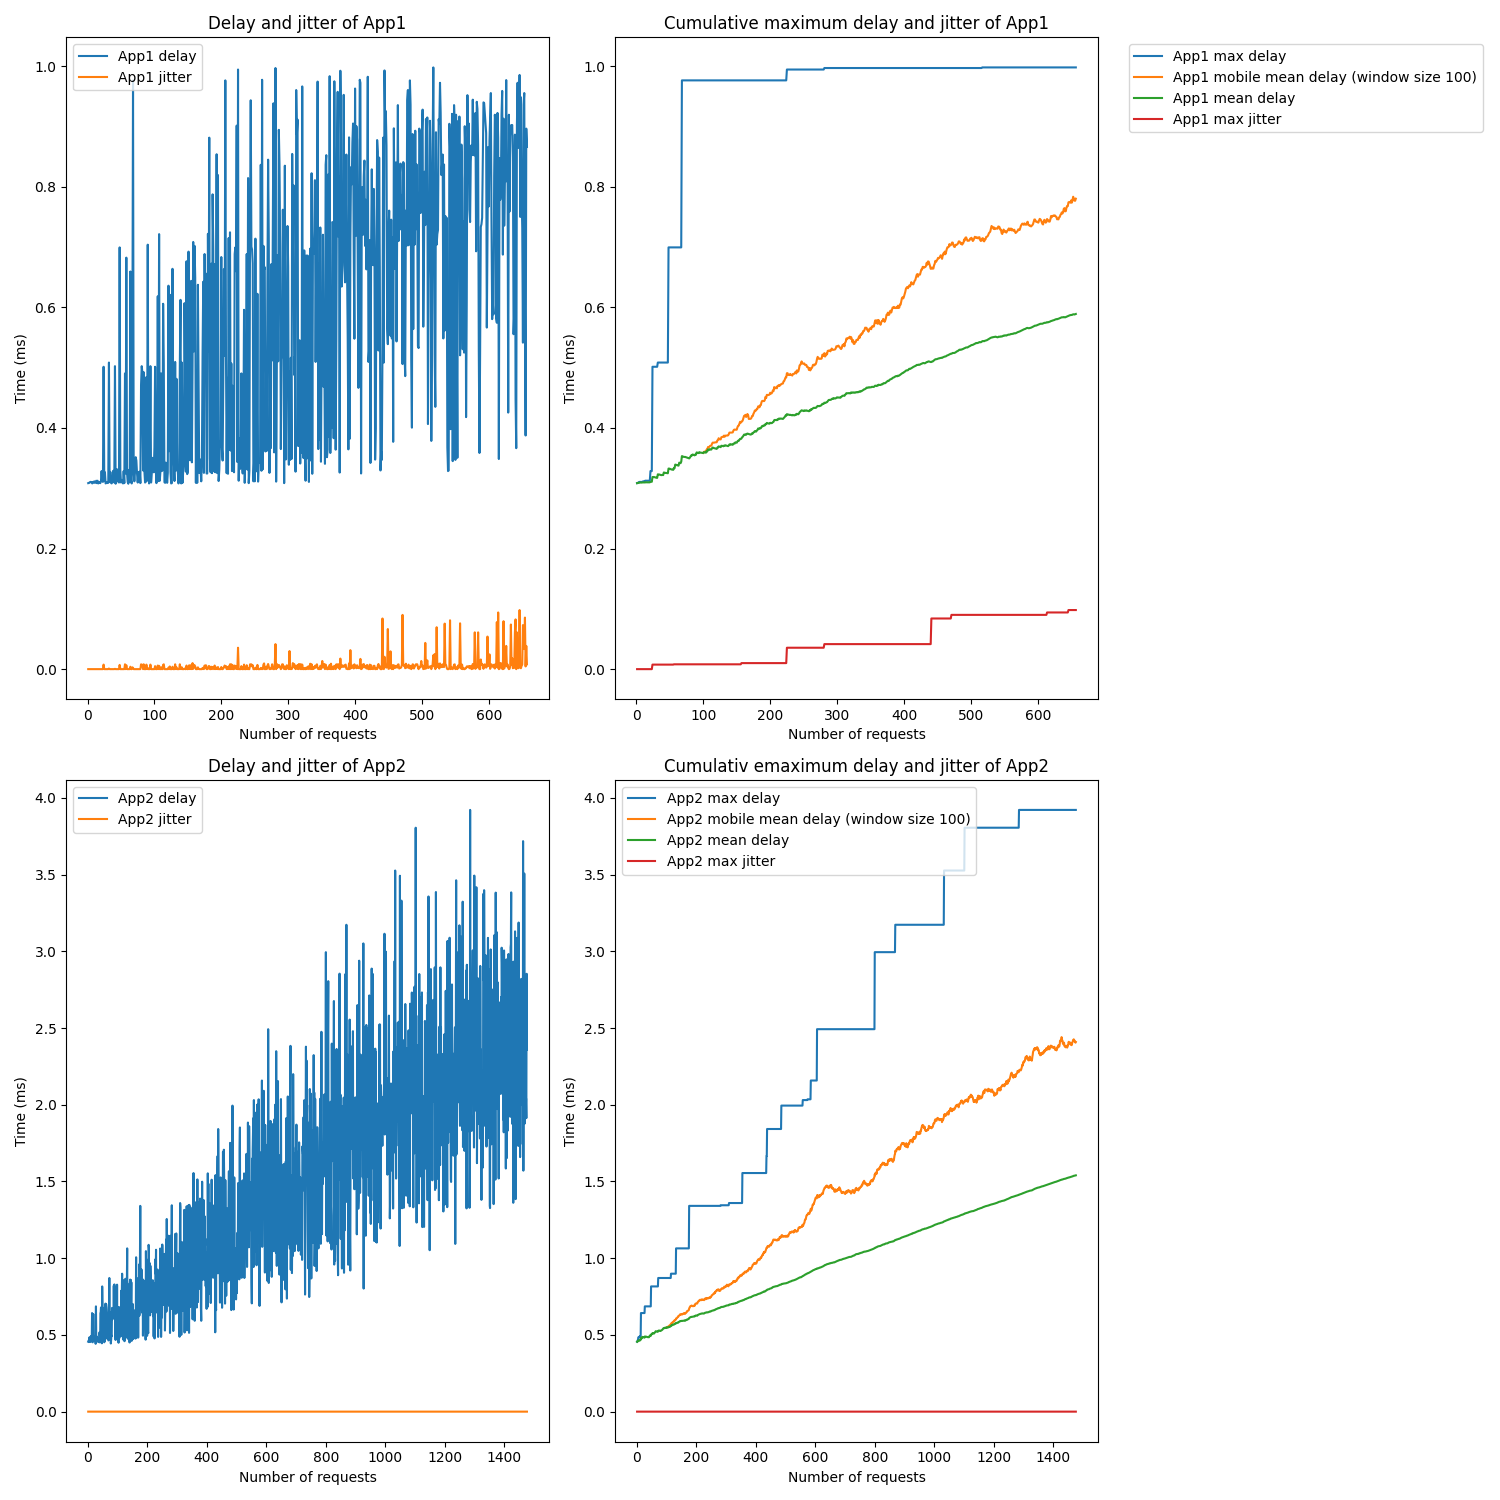
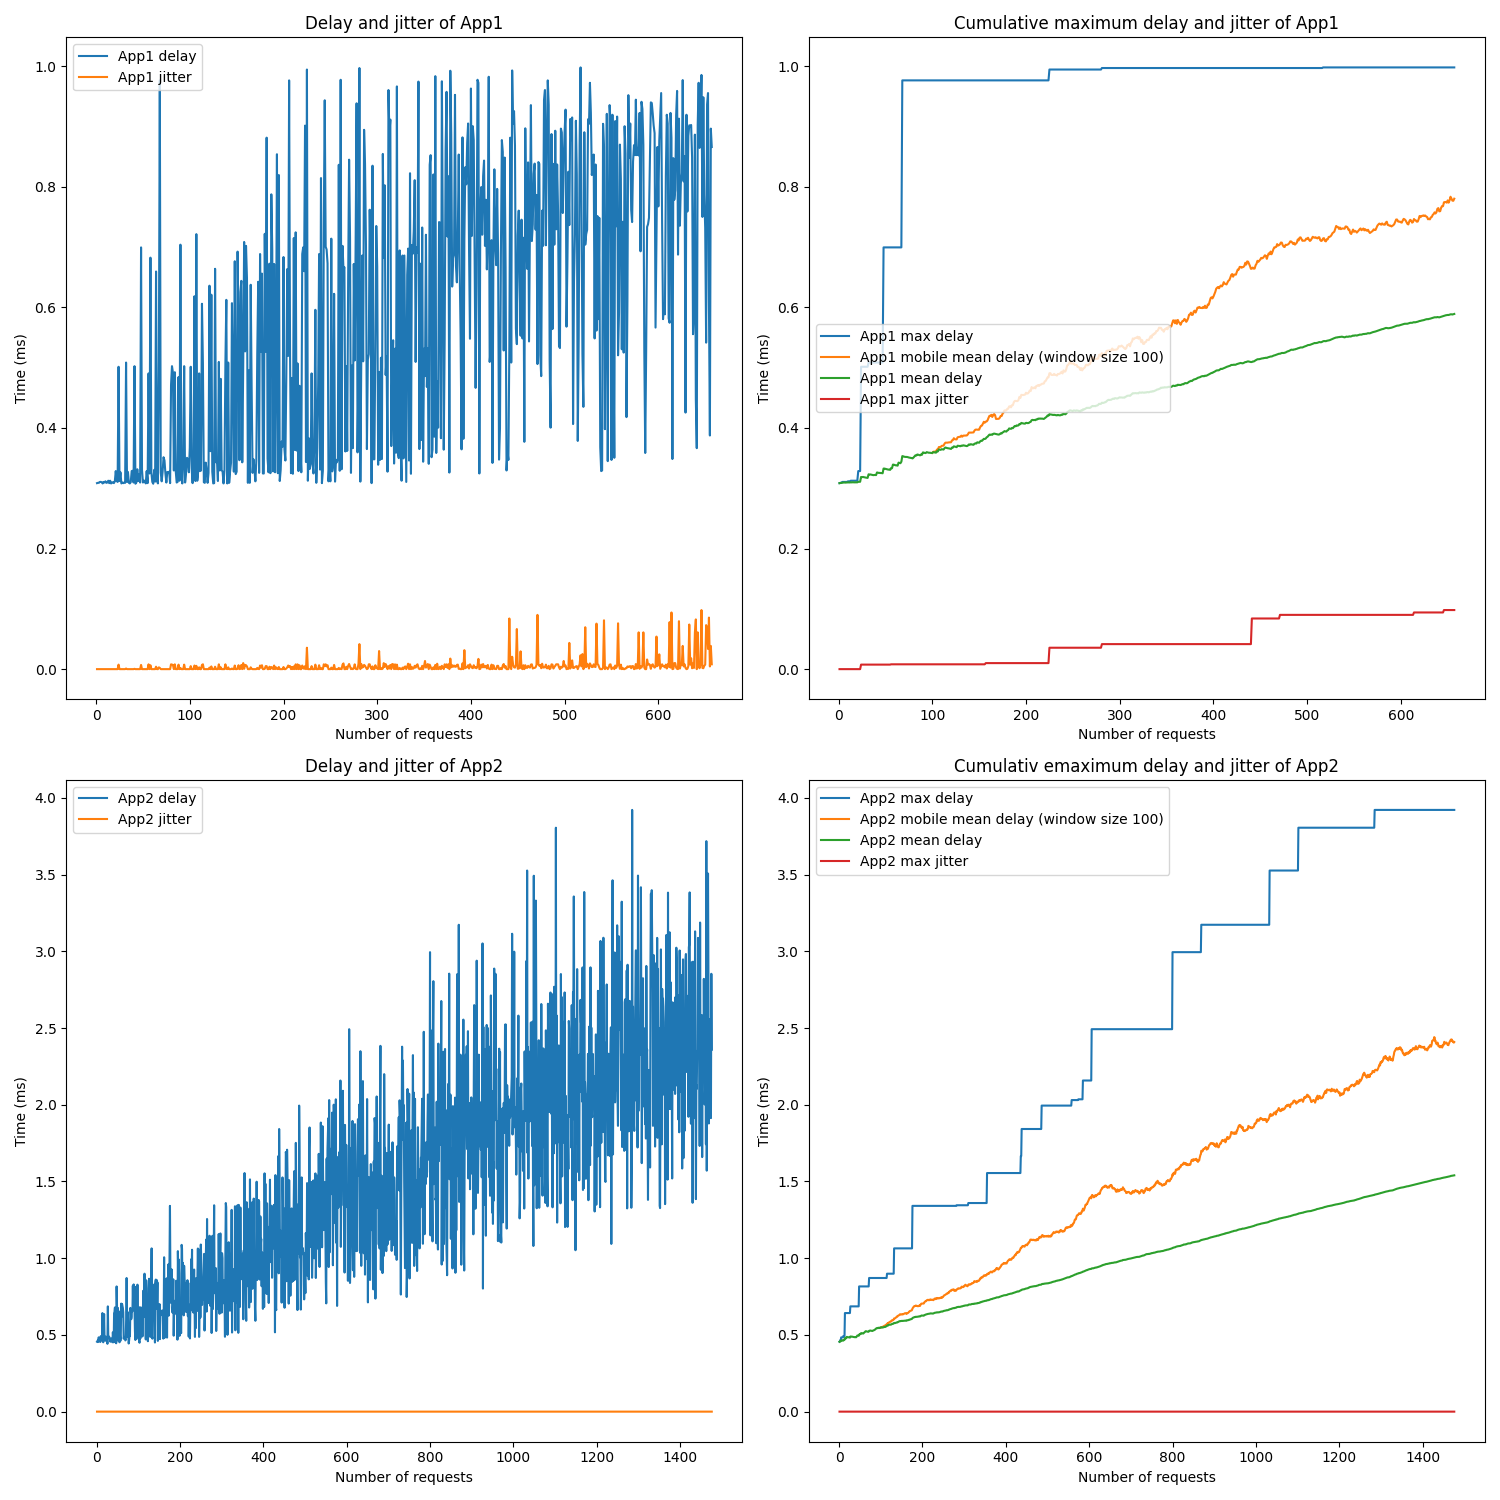
Validation results - Autocommit

diff --git a/instance_generator/generate_graph.py b/instance_generator/generate_graph.py
@@ -246,7 +246,7 @@ ax[0,1].plot(app1_n_requests, app1_filtered['mean100_delay_app1'], label='App1 m
 ax[0,1].plot(app1_n_requests, app1_filtered['mean_delay_app1'], label='App1 mean delay')
 
 ax[0,1].plot(app1_n_requests, app1_cumulative_jitter, label='App1 max jitter')
-ax[0,1].legend( loc='middle left')
+ax[0,1].legend( loc='center left')
 ax[0,1].set_xlabel('Number of requests')
 ax[0,1].set_ylabel('Time (ms)')
 ax[0,1].set_title('Cumulative maximum delay and jitter of App1')
